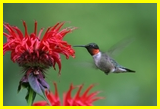
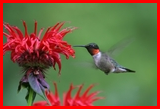
change border color in tests

Changed region(s): [[0.0, 0.0, 1.0, 1.0]]

diff --git a/src/test/kotlin/io/github/reugn/sketch/SketchBorderTest.kt b/src/test/kotlin/io/github/reugn/sketch/SketchBorderTest.kt
@@ -13,7 +13,7 @@ class SketchBorderTest : SketchTestBase() {
         val orig = SketchIO.load(sourceImagePath)
         assertTrue {
             SketchIO.save(
-                orig.border(3, Color.yellow),
+                orig.border(3, Color.red),
                 destImagePath("hummingbird_border.png")
             )
         }
@@ -24,7 +24,7 @@ class SketchBorderTest : SketchTestBase() {
         val orig = SketchIO.load(sourceImagePath)
         assertTrue {
             SketchIO.save(
-                orig.borderRadius(30).border(3, Color.yellow).borderRadius(30),
+                orig.borderRadius(30).border(3, Color.red).borderRadius(30),
                 destImagePath("hummingbird_border_with_radius.png")
             )
         }
